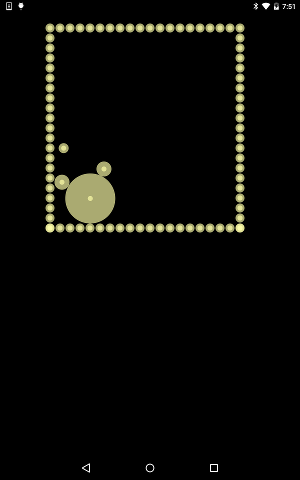
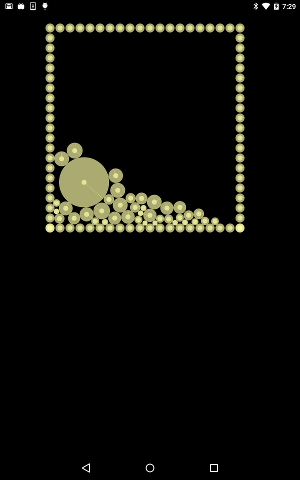
..

Changed region(s): [[0.18, 0.2812, 0.75, 0.4688], [0.0, 0.0, 0.18, 0.0312], [0.96, 0.0, 0.99, 0.0312]]

diff --git a/ph_2d_boun_no_friction/lib/main.dart b/ph_2d_boun_no_friction/lib/main.dart
@@ -3,11 +3,43 @@ import 'package:flutter/rendering.dart';
 import 'tinyphysics2d.dart';
 import 'tinygame.dart';
 import 'dart:math' as math;
+//
+import 'package:flutter/services.dart';
+import 'package:mojo_services/sensors/sensors.mojom.dart';
 
 TinyGameBuilderForFlutter f = new TinyGameBuilderForFlutter();
 
+double worldDx = 0.0;
+double worldDy = 0.0;
+double worldDz = 0.0;
+
+void intiSensor() {
+  print("######====================####s##");
+SensorServiceProxy sensor = new SensorServiceProxy.unbound();
+shell.requestService("h", sensor);
+
+SensorListenerStub stub = new SensorListenerStub.unbound();
+stub.impl = new MySensorListener();
+sensor.ptr.addListener(SensorType.GRAVITY, stub);
+print("######====================###s###");
+}
+
+class MySensorListener extends SensorListener {
+  void onAccuracyChanged(int accuracy) {
+    //print("accuracy: ${accuracy}");
+  }
+
+  void onSensorChanged(SensorData data) {
+  //  print("data: ${data.accuracy} ${data.values}");
+    worldDx = data.values[0];
+    worldDy = data.values[1];
+    worldDz = data.values[2];
+  }
+}
+
 void main() {
   runApp(new GameWidget());
+  intiSensor();
 }
 
 class GameWidget extends OneChildRenderObjectWidget {
@@ -44,7 +76,7 @@ class PlanetWorld extends TinyDisplayObject {
       w.primitives.add(new CirclePrimitive()
         ..move(-200.0 + i * 20, 0.0)
         ..radius = 9.0
-        ..mass = 500.0
+        ..mass = 50.0
         ..isFixing = true);
     }
     for (int i = 0; i < 20; i++) {
@@ -67,6 +99,8 @@ class PlanetWorld extends TinyDisplayObject {
     }
   }
   void onTick(TinyStage stage, int timeStamp) {
+    w.gravity.x = -1.0*worldDx/50.0;
+    w.gravity.y = -1.0*worldDy/50.0;
     for (int i = 0; i < 10; i++) {
       w.next(0.1);
     }

diff --git a/ph_2d_boun_no_friction/lib/tinyphysics2d/primitive.dart b/ph_2d_boun_no_friction/lib/tinyphysics2d/primitive.dart
@@ -100,7 +100,7 @@ class CirclePrimitive extends Primitive {
       }
       if (p.isFixing == false) {
         p.xy += distanceDirection * (boundary - distance) / 1.0;
-        p.dxy += (distanceDirection * (boundary - distance) / 1.0)/1000.0;
+        //p.dxy += (distanceDirection * (boundary - distance) / 1.0)/1000.0;
         p.dxy += p_dv;
         p.dangle += p_da.z*1000.0;
       }
